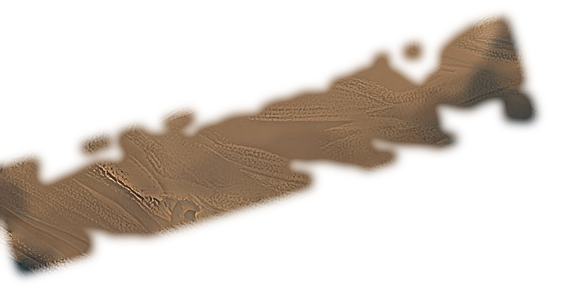
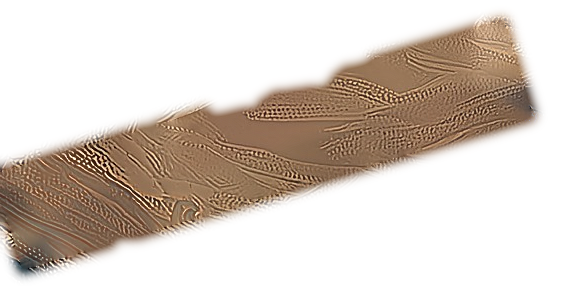
Tablet: 89 written left to right, the last 1 inside LAL (B. R. Foster, 31 Oct); credit agreed
New plate: Veo 3.1 Fast t2_V113_ltr_veof_t1, 1 of 4 ($1.60), first frame = the old plate's frame 12, so the hand never flies back
left. Four landings on plate frames 6, 22, 38, 44 write 1, 30, LAL and the last 1, in order. The last 1 is at 70%, leaned 30 degrees,
head toward LAL's join at 11 o'clock and not touching, under LAL's top wedge (join measured from the font's outline). TIP re-marked,
clay rebaked from the frames' 85th percentile (this take's stylus lingers in the median and left a smudge). check_cuts and chess_check
pass; no sound cue was tied to the old touch-downs.

Changed region(s): [[0.0, 0.0621, 0.931, 0.931]]

diff --git a/render/src/scenes/t2/lyric/tablet.js b/render/src/scenes/t2/lyric/tablet.js
@@ -4,13 +4,11 @@
 // (cuneiform.js), in two ruled registers; under a double ruling, a line already on the tablet: "um-ma na-an-ni-ma", "thus (says)
 // Nanni", from the Ea-nasir complaint tablet.
 // Jade (take two notes): the stylus has to make the strokes that appear. So the count is on the clay when the shot opens except
-// two wedges of 89, and those are pressed by the plate's stylus: the tip is tracked on every plate frame the shot shows (TIP), the
-// plate's two touch-downs are frames 14 and 42, and the rows are laid out so that 89's sixties wedge 𒁹 has its head where the
-// first touch lands and the last wedge of its 29 where the second one lands. 89 = 1;29 is written the scribes' way (30 Oct, after
-// B. R. Foster): 29 = 30 LAL 1, 𒁹 𒌍𒇲𒁹, the 1 tilted slightly to the left, and that 1 is the last wedge impressed (as he says the
-// last wedge would be). Each impression grows down from its head as the tip slides down the clay, with a ridge of displaced clay
-// ahead of it, and is whole once the tip moves off it. (The sixties wedge goes in first, out of a scribe's order, so 89 reads
-// 30-, 1;30-, 1;29 over the shot; 𒌍𒇲 is already there.)
+// 89, and the plate's stylus writes that, left to right without going back (B. R. Foster, 31 Oct: the hand "should write continuously
+// from left to right, just as we do, ending on that last 1-sign after the LAL"): 𒁹 on its first landing, 𒌍 on the next, 𒇲 on
+// the third and the last 1 where the tip slides on from there. 89 = 1;29 is written the scribes' way: 29 = 30 LAL 1, 𒁹 𒌍𒇲𒁹. The last 1
+// sits inside LAL under its top wedge, which roofs it, its head pointing at the join of LAL's two wedges at 11 o'clock and not touching
+// (Foster, 31 Oct). Each sign grows down from its top on its landing, with a ridge of displaced clay ahead of it.
 // The plate's stylus and hand stay on top (a per-plate-frame matte, trimmed to the stylus within 90 px of the tip so the plate's
 // own marks and the stylus' contact shadow there do not cut the inscription), and their shadow falls on the new clay.
 // p: {clip ('V113'), size (sign px), gain}
@@ -46,14 +44,12 @@ function assets() {
 }
 
 // ------------------------------------------------------------------------------------------------ the stylus
-// The reed tip (design px = plate px) on V113's even plate frames 4..50, the frames the shot shows (on twos: plate frame
-// 4 + 2 * floor(lt * 12)). Hand-marked on 3x crops of work/plates/V113 and checked on a strip with the marks drawn in.
-// In the air 4-12; first touch-down 14 at (745, 617), the tip slides 25 px down the clay to 26, then right along the bottom to
-// 32; lifted 34-40; second touch-down 42 at (858, 590), sinks to 46, slides off to the right by 48-50.
+// The reed tip (design px = plate px) on the even plate frames 4..50 the shot shows (on twos: plate frame 4 + 2 * floor(lt * 12)).
+// Hand-marked on 3x crops of work/plates/V113. Landings: frame 6-16 (782, 640), 22-34 (846, 622), 38, sliding right to 44 and off.
 const TIP = {
-  4: [836, 587], 6: [807, 563], 8: [783, 575], 10: [762, 592], 12: [752, 603], 14: [745, 617], 16: [745, 622], 18: [750, 625],
-  20: [748, 627], 22: [750, 632], 24: [753, 637], 26: [748, 642], 28: [760, 647], 30: [778, 648], 32: [773, 648], 34: [780, 593],
-  36: [812, 563], 38: [845, 565], 40: [859, 581], 42: [858, 590], 44: [857, 593], 46: [863, 597], 48: [877, 600], 50: [898, 602],
+  4: [770, 622], 6: [782, 640], 8: [792, 639], 10: [792, 639], 12: [792, 639], 14: [790, 640], 16: [792, 635], 18: [812, 605],
+  20: [829, 595], 22: [840, 625], 24: [846, 622], 26: [850, 622], 28: [853, 622], 30: [853, 622], 32: [853, 622], 34: [857, 618],
+  36: [880, 595], 38: [894, 601], 40: [901, 601], 42: [904, 605], 44: [908, 601], 46: [918, 598], 48: [925, 595], 50: [935, 598],
 };
 const TIP_F0 = 4, TIP_F1 = 50;
 const AXIS = [0.78, -0.625];        // the shaft, from the tip up to the hand (screen; it turns by a few degrees over the shot)
@@ -62,8 +58,8 @@ function tipAt(f) {
   const a = f - (f % 2), b = Math.min(TIP_F1, a + 2), k = b > a ? (f - a) / (b - a) : 0;
   return [lerp(TIP[a][0], TIP[b][0], k), lerp(TIP[a][1], TIP[b][1], k)];
 }
-// the two presses: the plate frame the tip lands on, and which wedge it makes
-const PRESSES = [{ f: 14, key: 'sixties' }, { f: 42, key: 'last' }];
+// the presses: the plate frame the tip lands on, which sign it makes, and the frames that sign takes to grow
+const PRESSES = [{ f: 6, key: 'sixties', dur: 6 }, { f: 22, key: 'thirty', dur: 8 }, { f: 38, key: 'lal', dur: 4 }, { f: 44, key: 'last', dur: 4 }];
 
 // ------------------------------------------------------------------------------------------------ the inscription
 // tablet space: u along a row, v down the tablet (row 2's baseline at v = 0, row 1's at -ROW, the letter's lines at EDGE's v)
@@ -73,40 +69,43 @@ const EDGE = [[EA_NASIR, 46], [NANNI, 94]];
 // Noto Sans Cuneiform geometry (em): a vertical wedge's head centre is 0.69 above the baseline; DISH's head centre is 0.208 from
 // its origin
 const HEAD_Y = 0.69, DISH_HX = 0.208, WEDGE_W = 0.24;
-// the 1 after LAL leans left: turned about its head, the tail swung right (radians; canvas rotation, negative = counter-clockwise)
-const LAL_TILT = -0.21;
+// the last 1 leans so its head points at LAL's join at 11 o'clock: turned about its head, the tail swung right (radians; canvas
+// rotation, negative = counter-clockwise). Scaled to fit under LAL's top wedge; LAST_IN is its head centre in LAL's em box (the join,
+// from the font's outline, is at about 0.31, 0.72). THIRTY_AT: 𒌍's centre past the sixties head, on the second landing.
+const LAL_TILT = -0.52, LAST_SCALE = 0.7, LAST_IN = [0.38, 0.58], THIRTY_AT = 66;
 const V_AXIS = [0.2, 0.8];          // a tablet unit down the tablet, on screen (u is a unit along the stylus' two landings)
 
-// rows: 1 1 2 3 5 8 13 / 21 34 55 89. 89's place gap is set so its two pressed wedges are exactly as far apart as the landings.
+// rows: 1 1 2 3 5 8 13 / 21 34 55 89. 89 is set from the landings: its last wedge's head is `span` past the sixties wedge's head.
 function layoutSigns(g, size, span) {
   g.font = `400 ${size}px L2Cun`;
   const w = (cp) => g.measureText(cps([cp])).width;
-  const n89 = cuneiformNumber(89);                                   // [[DISH], [U U U, LAL, DISH]]
-  const placeGap = span - ((w(n89[0][0]) - DISH_HX * size) + SIGN_GAP + w(n89[1][0]) + SIGN_GAP + w(n89[1][1]) + SIGN_GAP + DISH_HX * size);
   const out = [];
   const rows = [FIB.slice(0, 7), FIB.slice(7)];
   rows.forEach((nums, r) => {
     let u = 0;
     const v = (r - 1) * ROW;
     for (const n of nums) {
+      if (n === 89) {
+        const [[one], [thirty, lal, last]] = cuneiformNumber(89);
+        const hu = u + DISH_HX * size, lalU = hu + span - LAST_IN[0] * size, ls = size * LAST_SCALE;
+        out.push({ s: cps([one]), cp: one, u, v, size, n, press: 'sixties', w: w(one) });
+        out.push({ s: cps([thirty]), cp: thirty, u: hu + THIRTY_AT - w(thirty) / 2, v, size, n, press: 'thirty', w: w(thirty) });
+        out.push({ s: cps([lal]), cp: lal, u: lalU, v, size, n, press: 'lal', w: w(lal) });
+        out.push({ s: cps([last]), cp: last, u: hu + span - DISH_HX * ls, v: v + HEAD_Y * ls - LAST_IN[1] * size, size: ls, n, press: 'last', tilt: LAL_TILT, w: w(last) * LAST_SCALE });
+        continue;
+      }
       cuneiformNumber(n).forEach((place, pi) => {
-        if (pi) u += n === 89 ? placeGap : 20;
-        for (const cp of place) {
-          const it = { s: cps([cp]), cp, u, v, size, n };
-          if (n === 89 && pi === 0) it.press = 'sixties';
-          if (n === 89 && pi === 1 && cp === place[place.length - 1]) { it.press = 'last'; it.tilt = LAL_TILT; }
-          out.push(it); u += w(cp) + SIGN_GAP;
-        }
+        if (pi) u += 20;
+        for (const cp of place) { out.push({ s: cps([cp]), cp, u, v, size, n }); u += w(cp) + SIGN_GAP; }
       });
       u += GAP - SIGN_GAP;
     }
   });
   return out;
 }
-// the wedge each press makes: its head (tablet), and its extent in u
+// the sign each press makes: where the tip is on it, and its extent in u
 function pressWedge(it) {
-  const s = it.size;
-  return { hu: it.u + DISH_HX * s, u0: it.u - 4, u1: it.u + s * 0.42 };    // both presses make a single DISH
+  return { hu: it.u + it.w / 2, u0: it.u - 4, u1: it.u + it.w + 4 };
 }
 // a tilted sign (the 1 after LAL) is drawn turned about its wedge's head
 function tiltAbout(g, it) {
@@ -156,29 +155,18 @@ function rule(g, u0, u1, v) {
 }
 
 // the frame of tablet space on screen: u along the two landings, v = V_AXIS, origin so that the sixties wedge's head is on the
-// first landing (the last unit wedge's head then lands on the second, by the place gap)
+// first landing (the last wedge's head then lands on the last, by layoutSigns)
 function frameOf(size) {
-  const P1 = TIP[PRESSES[0].f], P2 = TIP[PRESSES[1].f];
+  const P1 = TIP[PRESSES[0].f], P2 = TIP[PRESSES[PRESSES.length - 1].f];
   const dx = P2[0] - P1[0], dy = P2[1] - P1[1], span = Math.hypot(dx, dy);
   return { U: [dx / span, dy / span], V: V_AXIS, span, P1, size };
 }
-const toTab = (F, o, [x, y]) => {   // screen -> tablet (u, v)
-  const [a, b] = F.U, [c, d] = F.V, det = a * d - b * c, X = x - o[0], Y = y - o[1];
-  return [(d * X - c * Y) / det, (-b * X + a * Y) / det];
-};
-// a press's state on plate frame f: dv (the impression's lower end) follows the deepest the tip has been; done once the tip has
-// moved off the wedge along the row (or past its tail)
-function pressState(F, o, it, W, landF, f) {
-  if (f < landF) return null;
-  const s = it.size, top = it.v - HEAD_Y * s, bottom = it.v + 0.13 * s;
-  let dv = top + s * 0.14, done = false;
-  for (let k = landF; k <= Math.min(f, TIP_F1); k += 2) {
-    const [tu, tv] = toTab(F, o, tipAt(k));
-    dv = Math.max(dv, tv + s * 0.14);
-    if (k > landF && Math.abs(tu - W.hu) > s * 0.3) done = true;
-  }
-  if (done || f > TIP_F1 || dv >= bottom) return { dv: bottom + s * 0.05, done: true };
-  return { dv, done: false };
+// a press's state on plate frame f: the sign grows down from its top over pr.dur frames from the landing
+function pressState(it, pr, f) {
+  if (f < pr.f) return null;
+  const s = it.size, top = it.v - HEAD_Y * s, bottom = it.v + 0.13 * s, k = (f - pr.f) / pr.dur;
+  if (k >= 1) return { dv: bottom + s * 0.05, done: true };
+  return { dv: lerp(top + s * 0.14, bottom, k), done: false };
 }
 
 export default {
@@ -224,7 +212,7 @@ export default {
     for (const it of items) {
       if (!it.press) { pressed(gi, it); continue; }
       const W = pressWedge(it), pr = PRESSES.find((x) => x.key === it.press);
-      const ps = pressState(F, o, it, W, pr.f, pf);
+      const ps = pressState(it, pr, pf);
       if (!ps) continue;
       const fl = 1 - (pf - pr.f) / (flashDur * 24);
       pressing(gi, it, W, ps, frame >= 0 ? fl : 0);

diff --git a/render/src/timeline.js b/render/src/timeline.js
@@ -500,10 +500,10 @@ export function buildTimeline(A) {
   S('0:24.70', wd('V1', 2, 'dust'), v1('Cart ruts in dust'));
   // V113's tablet (Jade, v6 note at 0:26.1; take-two note: the stylus has to make the strokes that appear): the plate's painted
   // triangles are covered with clean clay carrying the Fibonacci count 1 1 2 3 5 8 13 21 34 55 89 in real sexagesimal cuneiform
-  // above a line of the Ea-nasir tablet; all of it is on the clay when the shot opens except two wedges of 89, which the plate's
-  // stylus presses on its two touch-downs (plate frames 14 and 42: 25.79 and 26.96; scenes/t2/lyric/tablet.js, cuneiform.js)
+  // above a line of the Ea-nasir tablet; all of it is on the clay when the shot opens except 89, which the plate's stylus writes
+  // left to right, ending on the last 1 inside LAL (Foster, 31 Oct; scenes/t2/lyric/tablet.js, cuneiform.js)
   S('0:25.37', wd('V1', 2, 'mud'), { ...over(plate(), { scene: 't2_tablet', p: { clip: 'V113' } }), method: 'video', era: ERA.v1, look: LK.blueprint,
-    want: 'A reed stylus presses wedges into wet clay: the tablet already counts 1 1 2 3 5 8 13 21 34 55 in Babylonian sexagesimal numerals, and the stylus presses the last two wedges of 89 where it touches down', notes: 'writing began as counting grain; the numerals are genuine (tools/t2/cuneiform_card.py)' });
+    want: 'A reed stylus presses wedges into wet clay: the tablet already counts 1 1 2 3 5 8 13 21 34 55 in Babylonian sexagesimal numerals, and the stylus writes 89 left to right, ending on the last wedge inside LAL', notes: 'writing began as counting grain; the numerals are genuine (tools/t2/cuneiform_card.py)' });
   S('0:27.32', wd('V1', 3, 'seeds'), v1('A hand presses seeds into dark soil beside a dry irrigation channel'));
   // the cross-section on V115's painted cutaway (surface y ~500, seed ~(950, 630), the dry canal at the right): a slow push, the
   // lines ride it; stages on "dark", the beat, the snare

diff --git a/tools/t2/tablet_clay.py b/tools/t2/tablet_clay.py
@@ -59,7 +59,8 @@ def main():
     tri |= extra
     tri = cv2.morphologyEx(tri, cv2.MORPH_CLOSE, np.ones((9, 9), np.uint8))
     tri = cv2.dilate(tri, np.ones((5, 5), np.uint8), iterations=2) & band.astype(np.uint8)
-    clean = cv2.inpaint(np.clip(med, 0, 255).astype(np.uint8), tri, 15, cv2.INPAINT_TELEA).astype(np.float32)
+    bright = np.percentile(F, 85, axis=0)                    # the clay without the stylus, which lingers in the median on this take
+    clean = cv2.inpaint(np.clip(bright, 0, 255).astype(np.uint8), tri, 15, cv2.INPAINT_TELEA).astype(np.float32)
     # grain: the clay 150 px below the row (clean, same light), high-passed, added inside the inpainted area
     ref = cv2.imread(str(plate / 'f_00030.jpg')).astype(np.float32)[Y0 + 150:Y1 + 150, X0:X1]
     grain = ref - cv2.GaussianBlur(ref, (0, 0), 4)
@@ -70,7 +71,7 @@ def main():
 
     # per frame: shadow (smooth luminance ratio) and the stylus/hand matte (what the median cannot explain, connected to the
     # region's top edge or the top of its right edge, where the stylus and the fingers come in)
-    lm = cv2.GaussianBlur(lum, (0, 0), 10) + 1
+    lm = cv2.GaussianBlur(bright.mean(axis=2), (0, 0), 10) + 1
     hw, hh = w // 2, h // 2
     sprite = np.zeros((hh * 2, hw * n), np.uint8)
     prev = None

diff --git a/tools/t2/conform_all.py b/tools/t2/conform_all.py
@@ -28,7 +28,7 @@ ROOT = os.path.abspath(os.path.join(os.path.dirname(__file__), '..', '..'))
 sys.path.insert(0, os.path.join(ROOT, 'tools', 't2'))
 import restore_media as R  # noqa: E402
 
-FIXED = {'V113': ['--start', '0.3', '--dur', '2.5833']}
+FIXED = {'V113': ['--start', '1.5', '--dur', '2.2']}
 SKIP_DIRS = {'work/plates/V108', 'work/plates/V109', 'work/plates/V110',   # comp_walk.py
              # the verse 1 machines: the walk keyed over the machine plates, composited straight to frames (no video exists);
              # the plate folders themselves are on the derived-plates branch, derived/work/plates/V118..V121 (copy them over work/)

diff --git a/docs/take2/LYRICS.md b/docs/take2/LYRICS.md
@@ -95,19 +95,21 @@ triangles, and blueprint outlines counted them 1 to 6, one per eighth, with a di
 count. **Now:** the painted triangles are covered with clean clay (`tools/t2/tablet_clay.py` bakes `render/assets/t2/tablet/`:
 the inpainted clay, plus a per-plate-frame shadow and stylus/hand matte so the stylus stays on top). The scene `t2_tablet`
 (`scenes/t2/lyric/tablet.js`) puts the Fibonacci numbers on the clay in Old Babylonian sexagesimal numerals. Jade's take-two
-note: the stylus has to make the strokes that appear. So the count is already there when the shot opens except two wedges of
-89, and the plate's stylus presses those. The reed tip is hand-marked on every plate frame the shot shows (`TIP`, even plate
-frames 4 to 50). It touches down twice: plate frame 14 (25.79 s) and plate frame 42 (26.96 s). The rows are fitted so that
-89's sixties wedge 𒁹 has its head where the first touch lands and the tall last column of 𒐎 has its head where the second
-lands. Each impression grows down from its head as the tip slides, with a ridge of displaced clay ahead of it, and gets a
-brief blueprint flash. Near the tip, the plate matte is trimmed to the shaft, so the plate's own marks don't cut the inscription:
+note: the stylus has to make the strokes that appear. So the count is already there when the shot opens except 89, which the stylus
+writes (`TIP`, hand-marked on even plate frames 4 to 50). The plate is a new Veo take from 31 Oct, `t2_V113_ltr_veof_t1` (first frame:
+the old plate's frame 12), because Foster asked that the hand "write continuously from left to right, just as we do, ending on that
+last 1-sign after the LAL"; the old take flew back left. Its landings are plate frames 6 (𒁹), 22 (𒌍), 38 (𒇲) and 44 (the last 1, where
+the tip slides on from 𒇲). Each sign grows down from its top on its landing, with a ridge of displaced clay and a blueprint flash.
+Near the tip, the plate matte is trimmed to the shaft, so the plate's own marks don't cut the inscription:
 
 | 1 | 1 | 2 | 3 | 5 | 8 | 13 | 21 | 34 | 55 | 89 = 1;29 |
 |---|---|---|---|---|---|---|---|---|---|---|
 | 𒁹 | 𒁹 | 𒈫 | 𒐈 | 𒐊 | 𒐍 | 𒌋𒐈 | 𒎙𒁹 | 𒌍𒐉 | 𒐐𒐊 | 𒁹 𒌍𒇲𒁹 |
 
-89's 29 is written the scribes' way, 30 LAL 1 ("thirty less one": 𒌍 U U U, 𒇲 LAL, then a single wedge tilted slightly to the left;
-B. R. Foster, 29 Oct). The stylus's first touch makes the sixties wedge 𒁹, its second the tilted 1, the last wedge impressed.
+89's 29 is written the scribes' way, 30 LAL 1 ("thirty less one"; B. R. Foster, 29 Oct). His note of 31 Oct places the 1: inside LAL, so
+LAL's top wedge roofs it, with its head pointing at the join of LAL's two wedges at 11 o'clock and not touching. `tablet.js` draws it at
+70% with a 30 degree lean (`LAST_SCALE`, `LAL_TILT`, `LAST_IN`, the join measured from the font's outline). Rebake with
+`python3 tools/t2/tablet_clay.py --also 5,20,51 --also-until 3`.
 
 Row 1 holds 1 to 13 and row 2 holds 21 to 89, ending at the stylus. Under a double ruling, already on the tablet, are two
 lines of the Ea-nasir complaint tablet (UET 5, 81; CDLI P414985, transliteration read from the CDLI ATF dump): obverse line 1,
@@ -115,8 +117,8 @@ lines of the Ea-nasir complaint tablet (UET 5, 81; CDLI P414985, transliteration
 (line 2, *qí-bí-ma*, "speak!", is left out). Each sign was checked in the ORACC sign list (`osl.asl`). Line 1 was first left out
 because the transliteration's *ṣi* is ZE₂ in ORACC's numbering but ZI in the older convention; Benjamin R. Foster (Yale) settled
 it in reply to Jade (29 Oct): "the s. you are looking for in ea-nasir is in fact the sign you have as zé", so 𒍢 ZE₂ (U+12362).
-He also confirmed line 3 as "Thus says Nanni", and on the count: scribes usually wrote 9 as 10 minus 1 (U, then LAL, then a
-single wedge tilted slightly left) rather than nine wedges, so 89 is now 𒁹 𒌍𒇲𒁹 (above). Line 1 was added on 30 Oct: both letter lines at 28 px, line 1 at v 46 and Nanni at
+He also confirmed line 3 as "Thus says Nanni", and on the count: scribes usually wrote 9 as 10 minus 1 rather than nine wedges,
+so 89 is 𒁹 𒌍𒇲𒁹 (above). Line 1 was added on 30 Oct: both letter lines at 28 px, line 1 at v 46 and Nanni at
 v 94 (tablet.js `EDGE`), and "and the mud" moved 18 px further down the clay.
 The font is Noto Sans Cuneiform 2.001 (OFL), subset to these 24 signs (`assets/fonts/NotoSansCuneiform-t2-subset.ttf`). The data is in
 `scenes/t2/lyric/cuneiform.js`. `python3 tools/t2/cuneiform_card.py` reads every numeral's value back from its Unicode names and

diff --git a/docs/take2/HANDOFF.md b/docs/take2/HANDOFF.md
@@ -70,10 +70,8 @@ commits in pieces under 95 MB, or the project's Cloudflare account (R2) if Jade 
 2. **The ending** (Jade to confirm): the new song has no final hit, so the end card lands 0.13 s after the last whisper and the film
    runs 2.67 s past the song on silence (card held 3.11 s, as before). To end on the song instead: `film_duration` and the last
    knot in `retime_v2_cfg.json`, re-run `retime_v2.py`, then everything downstream.
-3. **The tablet** (V113): Benjamin R. Foster (Yale) answered Jade's questions. Done: the letter's first line ("to Ea-nasir", ṣi = ZE₂)
-   and 89 = 1;(30 LAL 1) with the 1 tilted left and pressed last. Waiting: his view of the clip (`deliverables/hold_fire_tablet_V113_1080p.mp4`;
-   the tilt `LAL_TILT` in `tablet.js` is a guess at "slightly"), and whether he agrees to a credit line on the end card (then add it
-   to `t2_endcard`'s credits; wording his choice).
+3. **The tablet** (V113): Benjamin R. Foster (Yale) reviewed it and agreed to the credit (on the card). Done 31 Oct: the last 1 inside LAL
+   and the hand writing left to right (`LYRICS.md`). `deliverables/hold_fire_tablet_V113_1080p.mp4` is the old clip until it is re-cut.
 4. **Subtitles**: written by Claude; a native read of uk and zh is worth having. ru/uk address "you" in the masculine (two words to
    change for feminine). zh is Simplified; Traditional not made. The second intro count is subtitled as the lyric sheet has it.
 5. **Delivery**: the CRF 14 master and the YouTube copy do not exist anywhere now (see above). Chat attachments cap at 400-500 MiB;
